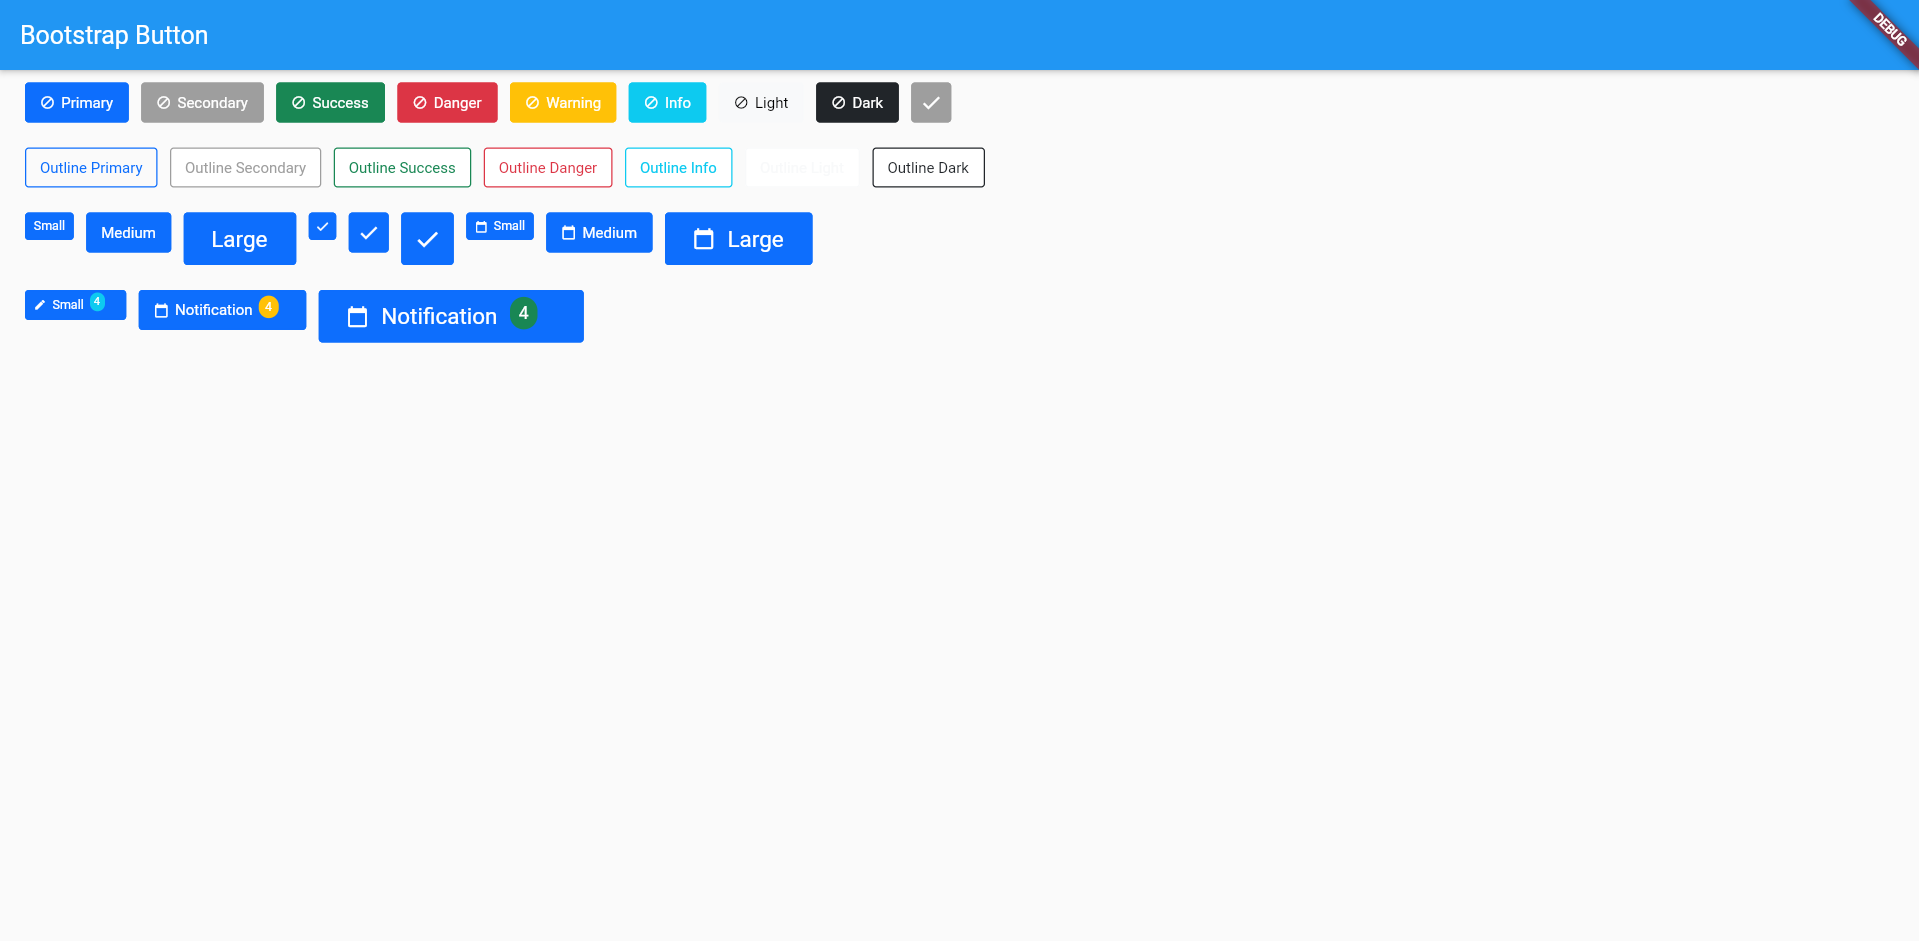
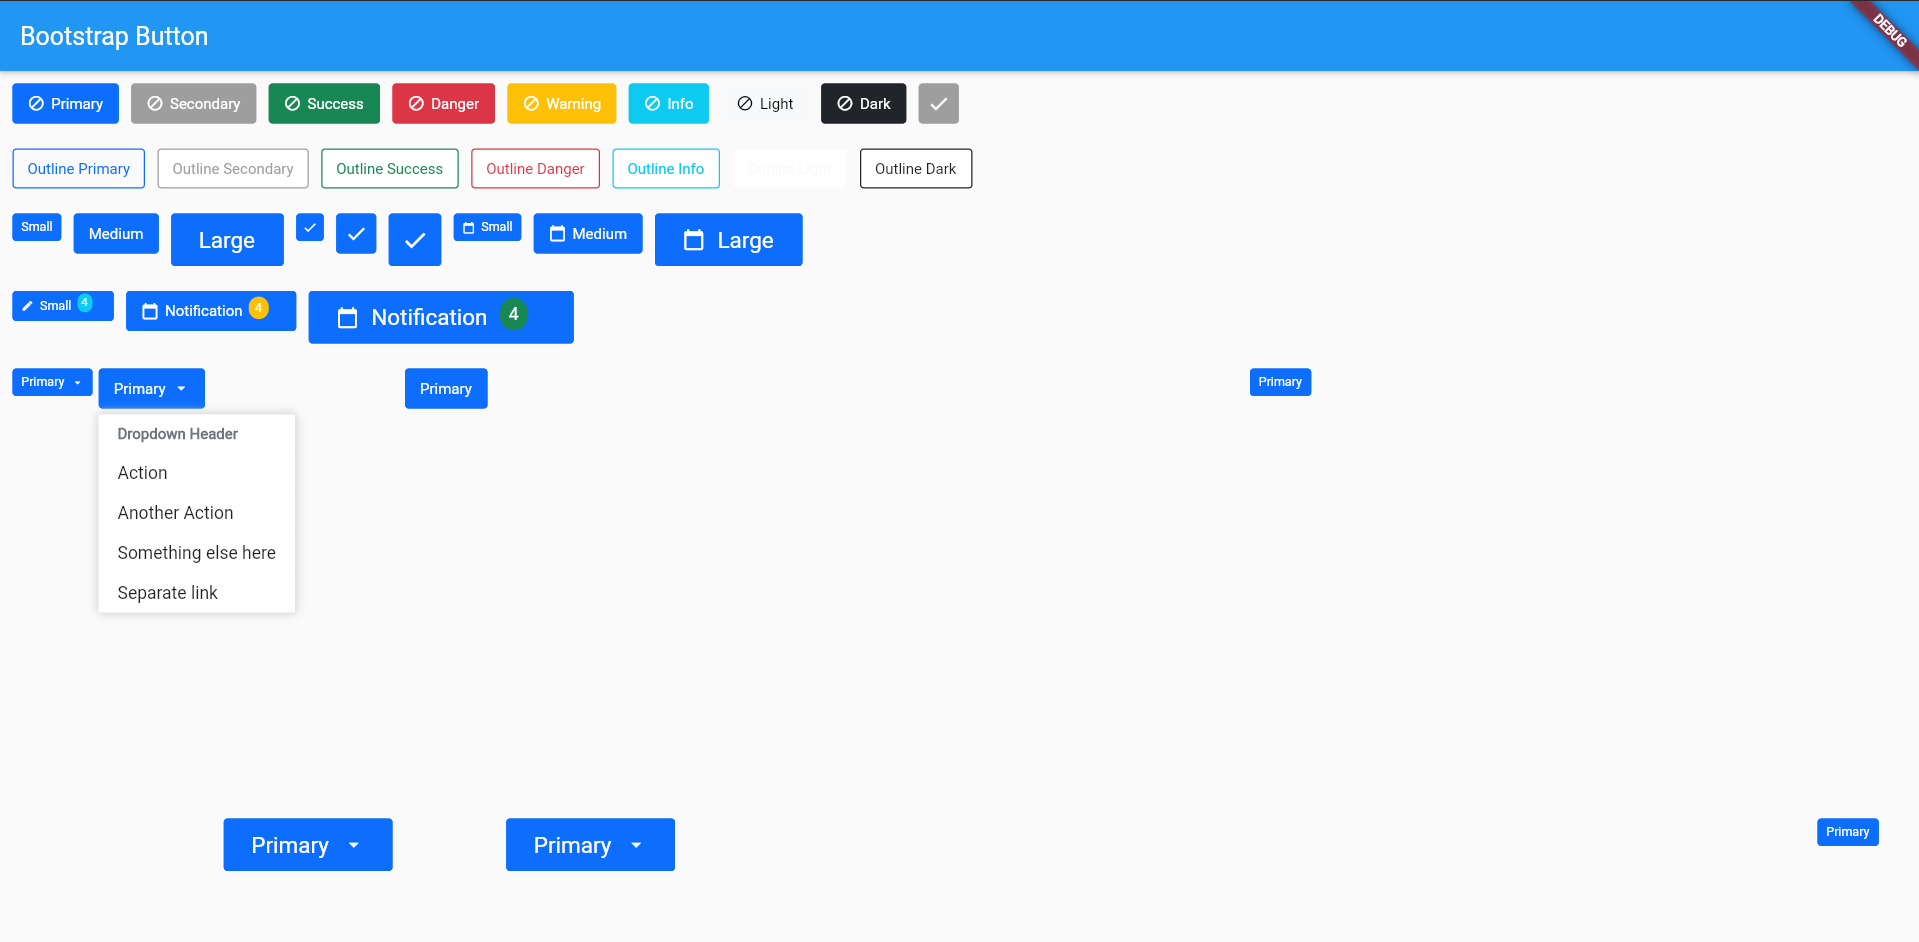
## 1.1.1
* Adding dropdown button
* Adding dropdown item with disable and active style
* Adding dropdown header
* Close dropdown menu when pressed escape
* Update README.md

diff --git a/README.md b/README.md
@@ -4,6 +4,12 @@
 
 Bootstrap’s custom button styles for actions in forms, dialogs, and more with support for multiple sizes, states, and more.
 
+Feature:
+- 8 button color with 2 style
+- Button icon
+- Button with badge
+- Dropdown buttons
+
 ## Getting Started
 Add the dependency in `pubspec.yaml`:
 
